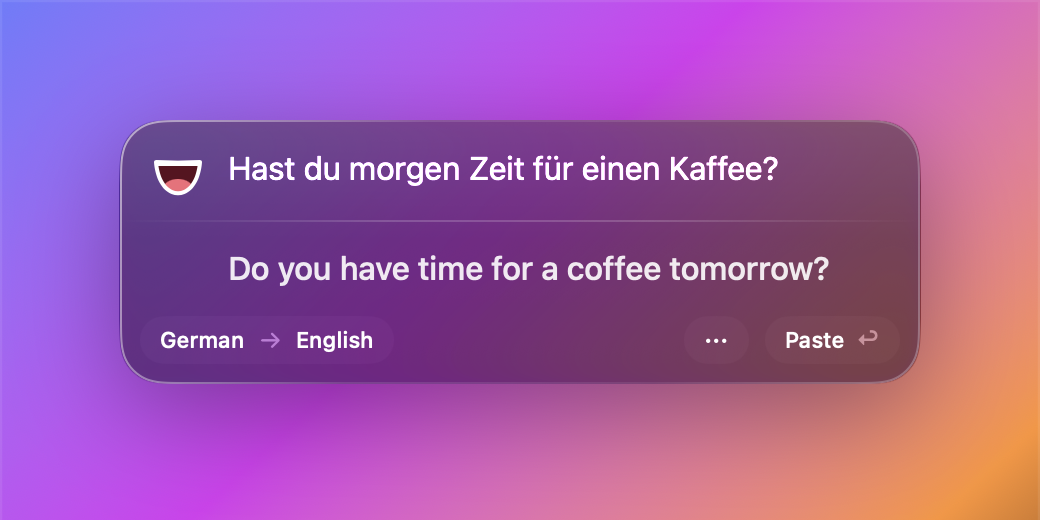
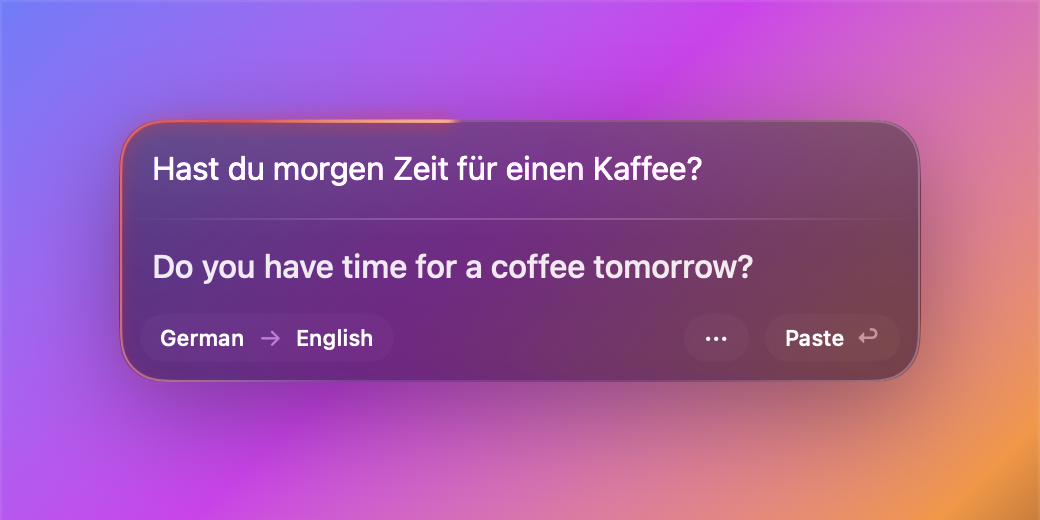
docs: describe the pulse, new screenshot

diff --git a/README.md b/README.md
@@ -41,8 +41,7 @@ To paste automatically, choose **Enable Pasting…** in the menu and enable Gosc
 ## The panel
 
 - It opens small in the top right corner. Pick another place under **Position** in the menu.
-- The mouth is shut while it waits, talks while it translates and grins when it is done.
-- It speaks a little Bavarian: *Red hoid* means "just talk", *Wart a bissl* means "wait a bit".
+- A pulse keeps racing around its edge, like a signal running through redstone. With *Reduce Motion* on, it stands still.
 
 ## Languages
 
